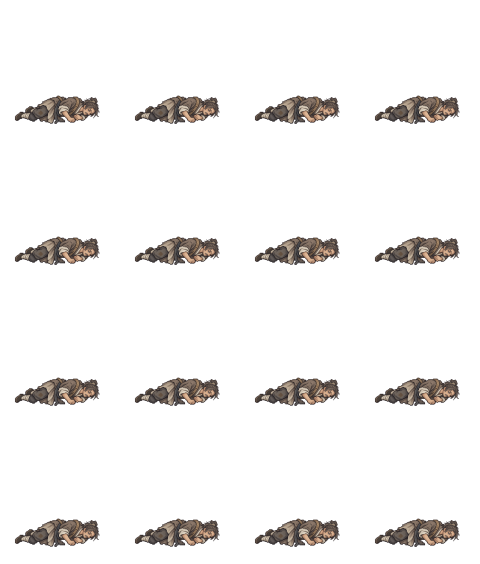
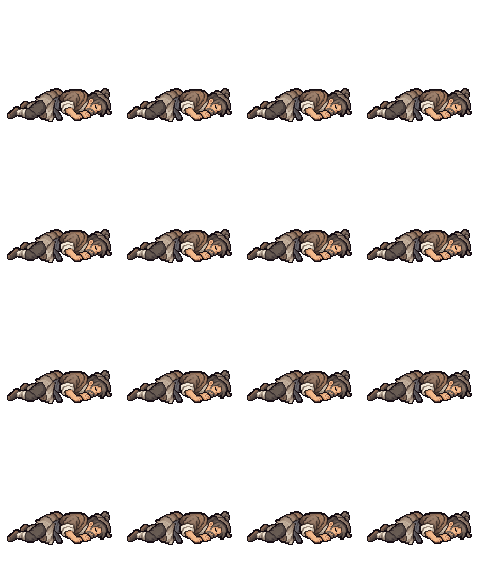
Match prone Zhou style and ground healer movement

diff --git a/js/scene.js b/js/scene.js
@@ -287,6 +287,26 @@ function drawChar(sp,x,y,dir='d',walk=0,t=0,opts={}){const k=spKey(sp),h=opts.h|
   if(moving){if(n<=1&&!wk){const ph=walk/(h*.1);bob=Math.abs(Math.sin(ph))*h*.035;sy=1+Math.sin(ph*2)*.015;sx=1/sy}}
   else if(!IDLE[k]){const b=Math.sin(t/650+(opts.ph||0));sy=1+b*.012;sx=1-b*.005}
   if(CHAR_GRADE_OK&&!BRIGHT)im=graded(im,(cur&&cur.grade)||CHAR_GRADE);g.save();g.translate(x,y);if(flip)sx=-sx;g.scale(sx,sy);
+  // 长裙移动帧的鞋大多被裙摆遮没：从裙下连续画出承重小腿，再由原精灵盖住上半段。
+  // 这段与人物共用脚点及缩放；不能另画一只孤立的「地面鞋」。
+  if(moving&&(k==='suzhi'||k==='ye')){
+    const phase=Math.floor(walk/(h*.23))&1,leg=h/92,side=dir==='l'||dir==='r';
+    const cloth=k==='suzhi'?'#46443f':'#514b47',boot='#302d2e';
+    g.save();g.scale(leg,leg);
+    if(side){
+      const lead=(dir==='l'?-1:1)*(phase?-1:1);
+      g.fillStyle=cloth;
+      g.fillRect(lead*3-4,-18,8,8);g.fillRect(lead*7-3,-12,7,6);g.fillRect(lead*8-3,-8,6,6);
+      g.fillRect(-lead*3-4,-17,8,7);g.fillRect(-lead*8-3,-12,7,5);
+      g.fillStyle=boot;g.fillRect(lead*8-4,-4,8,4);g.fillRect(lead*8-6,-3,12,3);
+      g.fillRect(-lead*11-4,-9,9,3);
+    }else{
+      const lead=phase?-1:1;g.fillStyle=cloth;
+      g.fillRect(lead*6-4,-18,8,18);g.fillRect(-lead*6-4,-17,8,10);
+      g.fillStyle=boot;g.fillRect(lead*6-5,-4,10,4);g.fillRect(-lead*6-5,-9,10,3);
+    }
+    g.restore();
+  }
   const footPad=box?(ih-box.bottom)*drawH/ih:0;g.drawImage(im,-w/2,-drawH+footPad-bob,w,drawH);g.restore()}
 // 角色调色：略压亮度/饱和、微暖，让干净的精灵融入地图（场景可用 grade 覆盖）
 // 调色结果按 (帧,调色) 缓存成离屏画布：逐帧逐角色走 ctx.filter 很贵（软件渲染下人多的场景掉帧一半）

diff --git a/tools_bright/pack_zhou_prone.py b/tools_bright/pack_zhou_prone.py
@@ -1,0 +1,27 @@
+"""Pack the reviewed prone-Zhou cutout into the game's static 4x4 sprite format."""
+from pathlib import Path
+from PIL import Image
+
+ROOT = Path(__file__).resolve().parents[1]
+SOURCE = ROOT / "art_sources/zhou_prone_20260930.png"
+TARGET = ROOT / "assets/s_zhou.webp"
+CELL_W, CELL_H = 120, 141
+
+im = Image.open(SOURCE).convert("RGBA")
+alpha = im.getchannel("A").point(lambda value: 255 if value >= 48 else 0)
+box = alpha.getbbox()
+if not box:
+    raise ValueError("Zhou cutout has no visible pixels")
+im.putalpha(alpha)
+cutout = im.crop(box)
+width = 105
+height = round(cutout.height * width / cutout.width)
+cutout = cutout.resize((width, height), Image.Resampling.NEAREST)
+cell = Image.new("RGBA", (CELL_W, CELL_H))
+cell.alpha_composite(cutout, ((CELL_W - width) // 2, 122 - height))
+sheet = Image.new("RGBA", (CELL_W * 4, CELL_H * 4))
+for row in range(4):
+    for col in range(4):
+        sheet.alpha_composite(cell, (col * CELL_W, row * CELL_H))
+sheet.save(TARGET, "WEBP", lossless=True, method=6)
+print(f"{TARGET}: source {box}, cutout {width}x{height}, sheet {sheet.size}")

diff --git a/docs/design/visual-acceptance.md b/docs/design/visual-acceptance.md
@@ -78,3 +78,14 @@
 修正 `264ac04` 推送到 `main` 并经 Cloudflare Pages Direct Upload 发布后，正式域名的 `index.html`、`js/scene.js`、`js/bstage.js`、`js/core.js`、偏巷和东岸地图文件与发布包 SHA256 相同。正式域名实开探索和战斗，`pageerror=[]`、HTTP 错误 `[]`。老周倒地长轴 100px / 萧白站姿 97px = **1.031**；战斗萧白/叶蘅/苏芷/喽啰/僧兵/军士同深度可见身体高度为 **105/100/104/101/106/106px**，普通成人比值 **0.952–1.010**。见 `/tmp/accept-prod-zhou.png`、`/tmp/accept-battle-prod-mixed-1280.png`。这确认 V01、V06 的上述样本在正式域名生效，不扩充为全角色逐帧验收。
 
 发布后首次开战另发现战斗专用表未到时主角短暂显示旧回退造型。按[战斗首帧规范](../battle-v2.md#3-统一约束)预载本场参战 `BART` 表，随 `b95ebe6` 二次部署。最终正式域名冷启动复验：进入战斗前 `b_hero`、`b_suzhi`、`b_bandit` 均未加载；第一个主角绘制以及遮罩揭开后的第一可见帧已是 `b_hero.webp`，全程未绘制旧主角表，`pageerror=[]`、HTTP 错误 `[]`。见 `/tmp/accept-prod-first-visible-battle.png`。
+
+## 2026-09-30 二次反馈复验：倒地者画风与女主跑动接地
+
+用户再次指出老周倒地画风不同、女主静止接地但跑动悬空。本节针对这两点重新验收；上方 V01 的尺寸达标和发布后同版复测不能代替本节的画风、跑姿判断。比较对象为反馈时的正式域名旧版与随后修改的本地工作树；**本地通过不表示修正已发布上线**。独立验收仅查看并操作实际运行画面，本节记录后没有修改游戏代码或素材。
+
+| 反馈点 | 反馈时线上旧版 | 本地新稿 | 独立证据与范围 |
+| --- | --- | --- | --- |
+| 老周倒地 | **视觉未通过**：头脚长轴虽已达约 100px，与同机位萧白站高约 97px 的比值约 1.03，但旧素材呈暗灰小团，正常镜头难辨头脸、手臂与腿，和邻近医者的轮廓、明暗不协调。先前 V01 对其画风“暂可接受”的判断撤回。 | **通过（街市当前镜头）**：替换后仍为约 100/97=1.03；头脸、撑地手臂、屈腿和衣装能分清，接地，透明边缘无明显白圈，残留地面色条已去除。 | 同机位旧图 `/tmp/accept-prod-zhou.png`、新图 `/tmp/accept-local-zhou-new.png`，新素材局部 `/tmp/accept-local-zhou-clean-crop.png` 与源帧 `/tmp/accept-zhou-source-row0.png`。只覆盖街市该倒地姿态及同机位画风比较，不推断其他角色或所有场景。 |
+| 叶蘅、苏芷跑动 | **未通过**：静止接地；跑动截图中衣摆、可辨脚部与影圈脱离，产生悬空/滑行观感。最低不透明像素与世界脚点相差约 1px 仍不能证明鞋底落地，因为衣摆或地面补点可能占据最低点。 | **通过（本次跑动样本）**：叶蘅侧向新折膝双腿从裙摆连到承重鞋，鞋在影圈内，不再呈细直竿或独立贴片；苏芷专用跑步帧四向未见连续悬空、脚断开或裙摆穿地。 | 旧版四向移动 `/tmp/accept-prod-four-montage.png`；本地叶蘅右跑第 3 帧局部 `/tmp/accept-ye-right3-foot-r3.png`、四向当前运行绘制逐帧 `/tmp/accept-cycle-ye-montage.png`，苏芷四向十帧 `/tmp/accept-cycle-suzhi-montage.png`。实际按键移动的状态与所选帧见 `/tmp/accept-{ye,suzhi}-state2.jsonl`；叶蘅右跑样本为 `moving=true`、`running=true`、`c_ye_r_2`，苏芷右跑为 `r_suzhi_r_5`。完整帧表是在当前游戏运行版中固定角色位置调用 `drawScene`/`drawChar` 检查；实际移动为四向时间抽帧，南向很快触发地图出口，未把固定位置逐帧检查称作完整路线实走。 |
+
+跑动验收同时查看可辨鞋腿与影圈的关系、动作连续性和正常视口观感，不能只以资源 alpha 外框、脚点坐标或单帧补丁判通过。上述截图存于本机 `/tmp`，若需长期追溯，应另行归档。

diff --git a/docs/design/xiangyang-art.md b/docs/design/xiangyang-art.md
@@ -19,6 +19,10 @@
 | 类别 | 尺度与落点基准 | 退稿界限与检查方式 |
 | --- | --- | --- |
 | 成年探索人物 | 同一地面、同一镜头的普通成人**身体**可见身高以主角为 1，目标 0.97–1.03；有明确高矮设定的具名人物可放宽至 0.93–1.08 并记录原因。武器、挑担、帽上长饰和画布留白不计入身体高度。孩童、犬、鸡等按物种另列 | 并排站在同一水平地面，逐帧量身体头顶到最低承重脚点；同一角色四向、移动与待机的高度变化不超过基准的 5%，非动作跳跃帧不能双脚离地。仅凭整图 alpha 外框或 `ART.scale` 数字不得判通过 |
+| 老周倒地事件精灵 | 保留老周灰褐布衣、头巾和长期劳作的体态；画法必须与 `s_hero_bright.webp` 等街市探索人物共用清晰像素网格、深色阶梯外轮廓和有限色阶。倒地姿势可以不同，不能混入平滑写实插画；静态事件不用伪造走路四向帧 | 以正常游戏镜头同屏看老周、萧白、叶蘅和苏芷，检查像素颗粒、边缘、明暗笔触和身份；倒地长轴仍按成人站姿量尺，保持接地 |
+| 同伴移动接地 | 待机、步行、跑步都以相同世界脚点落在地面；动作允许交替抬一只脚，但每帧至少有承重脚/鞋尖触地或与阴影仅隔 1–2 个画面像素。帧内透明留白不得使整个人上浮 | 四方向连续跑动逐帧量最低承重脚点、阴影中心和相邻帧位移；尤其核对苏芷长裙、跑步表与普通探索表的切换 |
+
+2026-09-30 返工记录：叶蘅没有专用跑步表，快速追随复用四帧行走图，原画下摆遮鞋，导致可见裙摆与阴影拉开约 15 屏幕像素。仅把鞋尖贴在地面会形成断开的贴片；把一条细腿直通地面又像高跷。当前保留原图，在角色绘制时把前后交替、折膝的承重腿绘在裙摆背后，并用原图盖住腿的上半段；苏芷专用跑表仍保留。整张 4×10 跑步表的生成候选因格线漂移、杂色背景和人物身份变化退稿，不进正式资源。最终仍须以两名女医者四方向连续实际跑步镜头判定，不能用 alpha 最低点恰好对齐脚点代替视觉验收。
 | 倒地成年人 | 按身体长轴比较：从头到脚的可见长度目标为同镜头主角站姿身高的 0.9–1.15，短轴厚度由姿势决定；交互标记和阴影不计入长度 | 将倒地者与一名站立成人放在同一地面截图，量可见身体长轴、接地边和阴影；不能因站姿画布是 141 像素就按画布高度缩小躺姿 |
 | 接地与阴影 | 精灵的脚底锚点、世界坐标、椭圆阴影中心使用同一地面点；步行动画允许抬脚，至少一只承重脚应接触该地面点。倒地者按身体与地面接触边界重算阴影 | 同机位截图放大检查：站立帧最低脚点与阴影中心的纵向偏差不超过屏幕 3 像素；不出现双脚同时离地或阴影明显游离 |
 | 像素轮廓与透明边 | 探索精灵使用同一像素密度、清楚的深色外轮廓与有限色阶；裁切透明留白不改变渲染身高。对话立绘可用淡彩，但透明边缘须贴合人体和衣物 | 在深、浅两种背景各检查一次；不得有连续可见白底边、浅色抠图晕圈或异质画风；不能仅在白底预览通过 |

diff --git a/docs/design/xiangyang-art-prompts.md b/docs/design/xiangyang-art-prompts.md
@@ -104,6 +104,16 @@ Create a wide 16:9 illustrated story-event still for a premium Chinese wuxia RPG
 
 ## 验收记录
 
+### 2026-09-30 老周倒地探索精灵重做
+
+旧 `s_zhou.webp` 采用与街市人物不同的平滑写实笔触，放大后仍难认出头脸和手脚，不能仅以长度达标判通过。本次使用内置 imagegen，以 `s_hero_bright.webp` 为**画风基准**、旧 `s_zhou.webp` 仅为**身份与姿势参考**，生成透明的单人横卧像素稿；第二次定点编辑去掉模型附带的矩形地面色块。最终源图存 `art_sources/zhou_prone_20260930.png`，`tools_bright/pack_zhou_prone.py` 裁切并以最近邻缩至 105×34，打包为 4×4 静态 `assets/s_zhou.webp`。核心提示词：
+
+~~~text
+One single left-to-right horizontal full-body prone Old Zhou, head right, feet left, body resting on the ground. Match the hero sprite's chunky square pixel clusters, dark stepped outline, limited muted palette and simple readable face. Preserve the older laborer's head wrap, worn gray-brown tunic, trousers and boots from the old Zhou identity reference. Simplify painterly folds to blocky 2–4 color clusters. Transparent background, no smooth illustration brushwork, gradients, antialiasing, baked shadow, floor patch, text, props or sprite grid.
+~~~
+
+验收必须在街市同屏与萧白、叶蘅、苏芷并排看正常游戏尺寸与放大近景；既量倒地长轴，也看头脸、撑地手、腿、像素笔触和透明边缘。
+
 | 项目 | 结果与复用条件 |
 | --- | --- |
 | 画面 | 四张立绘、四张精灵、四枚证物图标和一张街心救治事件画已接入；叶蘅/浪里鳅品红底由脚本抠图。重生时须查头发、袖口边缘残色。 |
